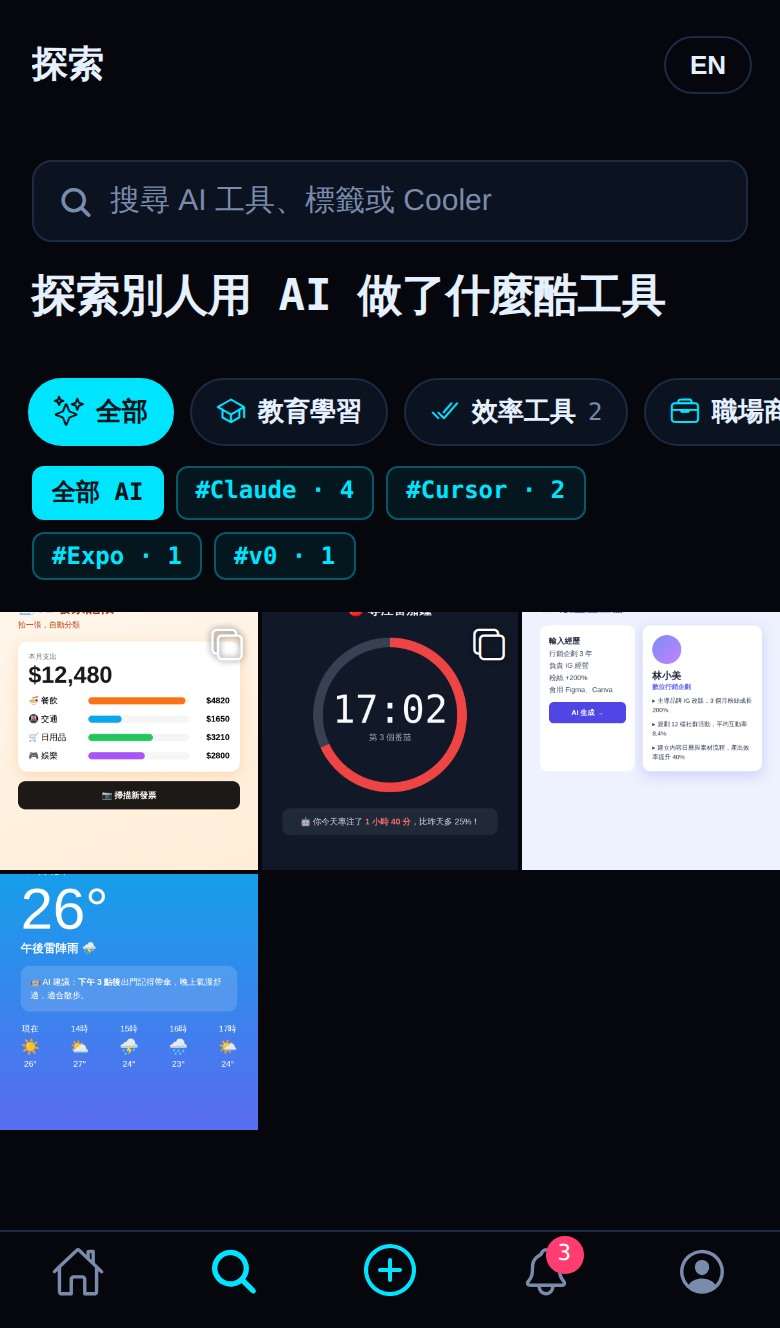
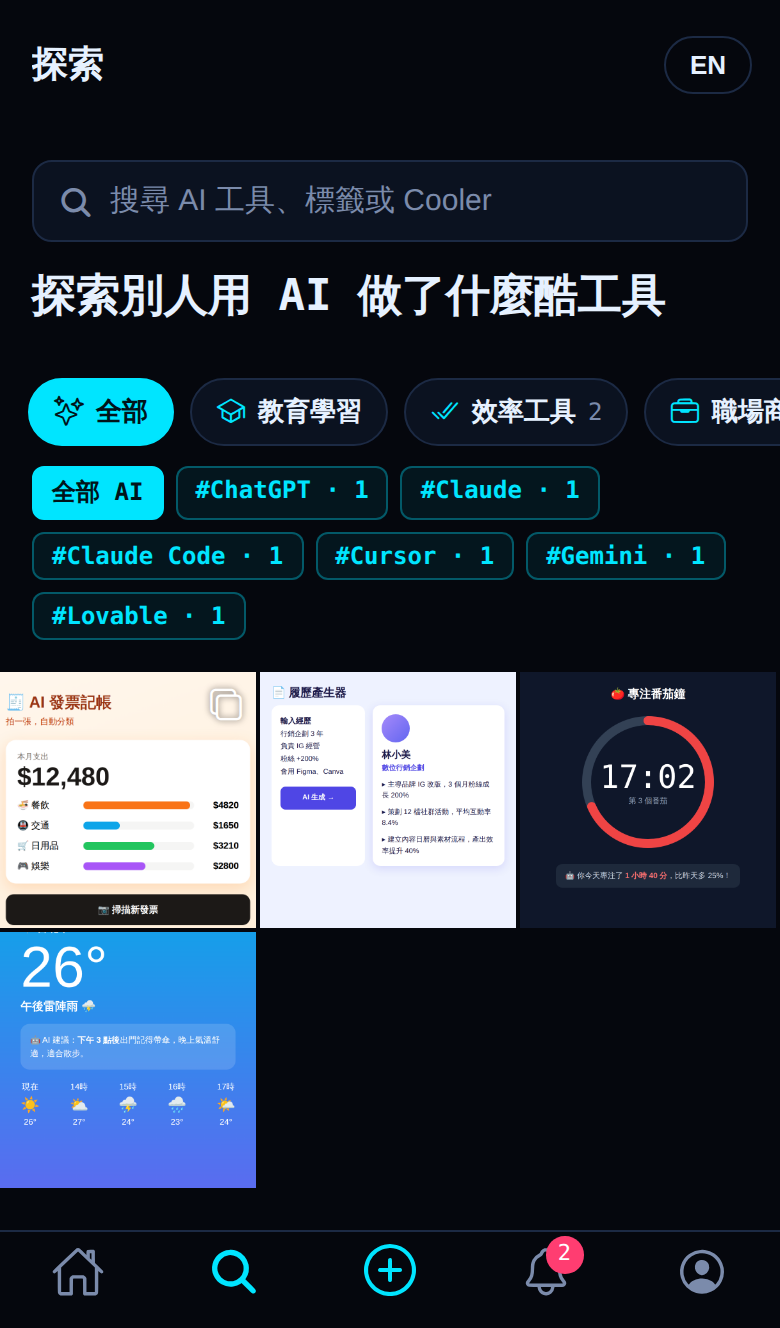
Refresh intro site screenshots with the latest app
New feed tabs (For you / Latest / Top / Following), GitHub stars and
comment/share counts, Try it + Learn it buttons, AI tool chips, pinned
posts on the profile, and share notifications.

Claude-Session: https://claude.ai/code/session_01QmTfduErPhUtKAHBvsP64j

Changed region(s): [[0.0, 0.3396, 1.0, 0.8953], [0.3385, 0.3396, 0.4, 0.3705], [0.2769, 0.3396, 0.3077, 0.3705]]

diff --git a/index.html b/index.html
@@ -62,7 +62,7 @@
       <svg class="sparkle" width="14" height="14" viewBox="0 0 24 24" aria-hidden="true" style="bottom: 36px; right: 34px;"><path d="M12 2l2.2 7.8L22 12l-7.8 2.2L12 22l-2.2-7.8L2 12l7.8-2.2z" fill="#7c4dff"></path></svg>
       <svg class="sparkle" width="10" height="10" viewBox="0 0 24 24" aria-hidden="true" style="top: 40%; right: 28px;"><circle cx="12" cy="12" r="6" fill="#ffffff" opacity="0.6"></circle></svg>
       <div class="phone">
-        <img src="assets/screens/en/feed.png?v=20261027" width="780" height="1328" alt="YourWowAI feed: an AI receipt tracker shared by a user, with Cool and Not Cool buttons">
+        <img src="assets/screens/en/feed.png?v=20261029" width="780" height="1328" alt="YourWowAI feed: an AI receipt tracker shared by a user, with Cool and Not Cool buttons">
       </div>
     </div>
   </div>
@@ -154,11 +154,11 @@
       <p>Real app screens. The app is available in English and Traditional Chinese.</p>
     </div>
     <div class="gallery" tabindex="0" aria-label="App screenshots, scroll sideways">
-      <figure><div class="phone"><img src="assets/screens/en/feed.png?v=20261027" width="780" height="1328" loading="lazy" alt="Feed with Cool and Not Cool buttons"></div><figcaption>Your work, shared</figcaption></figure>
-      <figure><div class="phone"><img src="assets/screens/en/post.png" width="780" height="1328" loading="lazy" alt="Post page with AI tool tags, a try-it button and comments"></div><figcaption>Comments and feedback</figcaption></figure>
-      <figure><div class="phone"><img src="assets/screens/en/explore.png" width="780" height="1328" loading="lazy" alt="Explore page with search, AI tool tags and a grid of projects"></div><figcaption>Discovered by AI tool</figcaption></figure>
-      <figure><div class="phone"><img src="assets/screens/en/notifications.png" width="780" height="1328" loading="lazy" alt="Notifications for comments, Cool votes and follows"></div><figcaption>Know when it lands</figcaption></figure>
-      <figure><div class="phone"><img src="assets/screens/en/profile.png" width="780" height="1328" loading="lazy" alt="Profile with avatar, bio and contact buttons"></div><figcaption>Your portfolio</figcaption></figure>
+      <figure><div class="phone"><img src="assets/screens/en/feed.png?v=20261029" width="780" height="1328" loading="lazy" alt="Feed with Cool and Not Cool buttons"></div><figcaption>Your work, shared</figcaption></figure>
+      <figure><div class="phone"><img src="assets/screens/en/post.png?v=20261029" width="780" height="1328" loading="lazy" alt="Post page with AI tool tags, Try it and Learn it buttons, GitHub stars and comments"></div><figcaption>Comments and feedback</figcaption></figure>
+      <figure><div class="phone"><img src="assets/screens/en/explore.png?v=20261029" width="780" height="1328" loading="lazy" alt="Explore page with search, categories, AI tool tags and a grid of projects"></div><figcaption>Discovered by AI tool</figcaption></figure>
+      <figure><div class="phone"><img src="assets/screens/en/notifications.png?v=20261029" width="780" height="1328" loading="lazy" alt="Notifications for comments, Cool votes and follows"></div><figcaption>Know when it lands</figcaption></figure>
+      <figure><div class="phone"><img src="assets/screens/en/profile.png?v=20261029" width="780" height="1328" loading="lazy" alt="Profile with avatar, bio and contact buttons"></div><figcaption>Your portfolio</figcaption></figure>
     </div>
   </div>
 </section>

diff --git a/zh/index.html b/zh/index.html
@@ -67,7 +67,7 @@
       <svg class="sparkle" width="14" height="14" viewBox="0 0 24 24" aria-hidden="true" style="bottom: 36px; right: 34px;"><path d="M12 2l2.2 7.8L22 12l-7.8 2.2L12 22l-2.2-7.8L2 12l7.8-2.2z" fill="#7c4dff"></path></svg>
       <svg class="sparkle" width="10" height="10" viewBox="0 0 24 24" aria-hidden="true" style="top: 40%; right: 28px;"><circle cx="12" cy="12" r="6" fill="#ffffff" opacity="0.6"></circle></svg>
       <div class="phone">
-        <img src="../assets/screens/feed.png?v=20261027" width="780" height="1328" alt="YourWowAI 動態牆：阿凱分享的「AI 發票記帳」，下方有 Cool 和 Not Cool 按鈕">
+        <img src="../assets/screens/feed.png?v=20261029" width="780" height="1328" alt="YourWowAI 動態牆：阿凱分享的「AI 發票記帳」，下方有 Cool 和 Not Cool 按鈕">
       </div>
     </div>
   </div>
@@ -162,11 +162,11 @@
       <p>真實的 App 畫面。</p>
     </div>
     <div class="gallery" tabindex="0" aria-label="App 畫面截圖，可以左右捲動">
-      <figure><div class="phone"><img src="../assets/screens/feed.png?v=20261027" width="780" height="1328" loading="lazy" alt="動態牆與 Cool 按鈕"></div><figcaption>分享出去的作品</figcaption></figure>
-      <figure><div class="phone"><img src="../assets/screens/post.png" width="780" height="1328" loading="lazy" alt="貼文頁：AI 工具標籤、試用工具按鈕與留言"></div><figcaption>收到留言與回饋</figcaption></figure>
-      <figure><div class="phone"><img src="../assets/screens/explore.png" width="780" height="1328" loading="lazy" alt="探索頁：搜尋框、AI 工具標籤與作品九宮格"></div><figcaption>被搜尋、被發現</figcaption></figure>
-      <figure><div class="phone"><img src="../assets/screens/notifications.png" width="780" height="1328" loading="lazy" alt="通知頁：留言、Cool、追蹤通知"></div><figcaption>收到 Cool 的通知</figcaption></figure>
-      <figure><div class="phone"><img src="../assets/screens/profile.png" width="780" height="1328" loading="lazy" alt="個人頁：大頭貼、自我介紹與聯繫我按鈕"></div><figcaption>你的作品集</figcaption></figure>
+      <figure><div class="phone"><img src="../assets/screens/feed.png?v=20261029" width="780" height="1328" loading="lazy" alt="動態牆與 Cool 按鈕"></div><figcaption>分享出去的作品</figcaption></figure>
+      <figure><div class="phone"><img src="../assets/screens/post.png?v=20261029" width="780" height="1328" loading="lazy" alt="貼文頁：AI 工具標籤、試用工具與看教學按鈕、GitHub 星星數與留言"></div><figcaption>收到留言與回饋</figcaption></figure>
+      <figure><div class="phone"><img src="../assets/screens/explore.png?v=20261029" width="780" height="1328" loading="lazy" alt="探索頁：搜尋框、AI 工具標籤與作品九宮格"></div><figcaption>被搜尋、被發現</figcaption></figure>
+      <figure><div class="phone"><img src="../assets/screens/notifications.png?v=20261029" width="780" height="1328" loading="lazy" alt="通知頁：留言、Cool、追蹤通知"></div><figcaption>收到 Cool 的通知</figcaption></figure>
+      <figure><div class="phone"><img src="../assets/screens/profile.png?v=20261029" width="780" height="1328" loading="lazy" alt="個人頁：大頭貼、自我介紹與聯繫我按鈕"></div><figcaption>你的作品集</figcaption></figure>
     </div>
   </div>
 </section>
